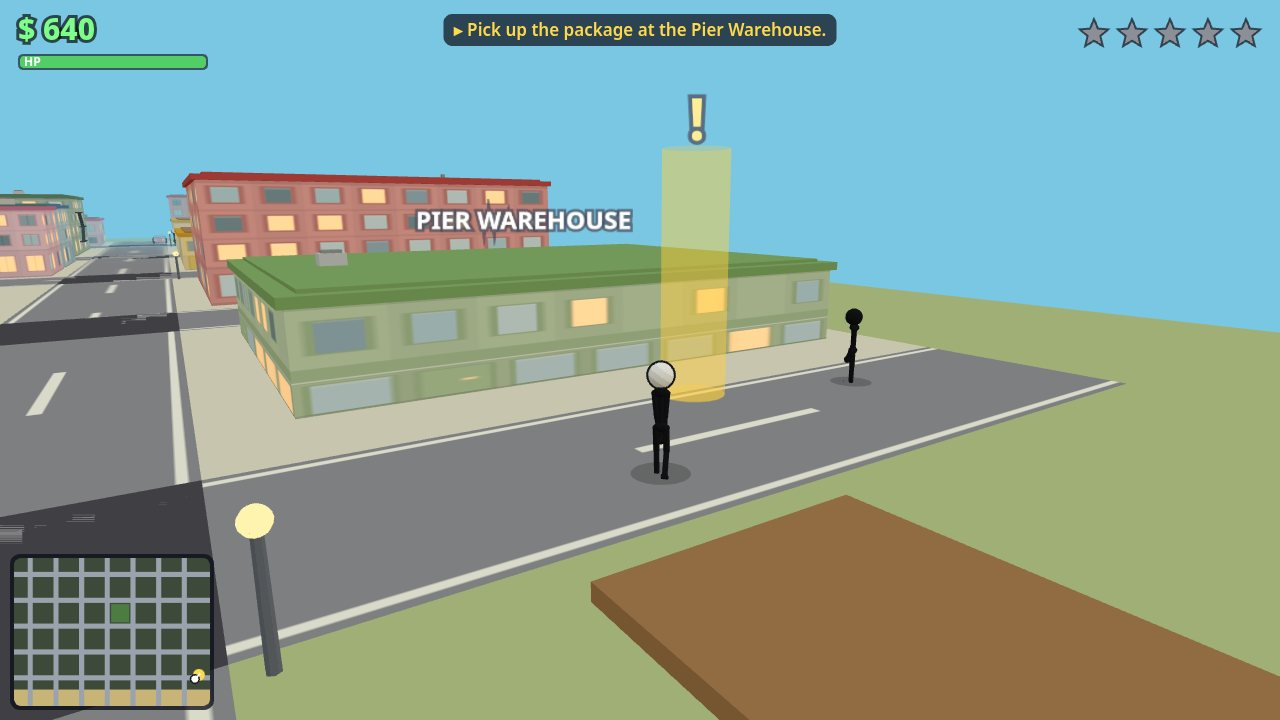
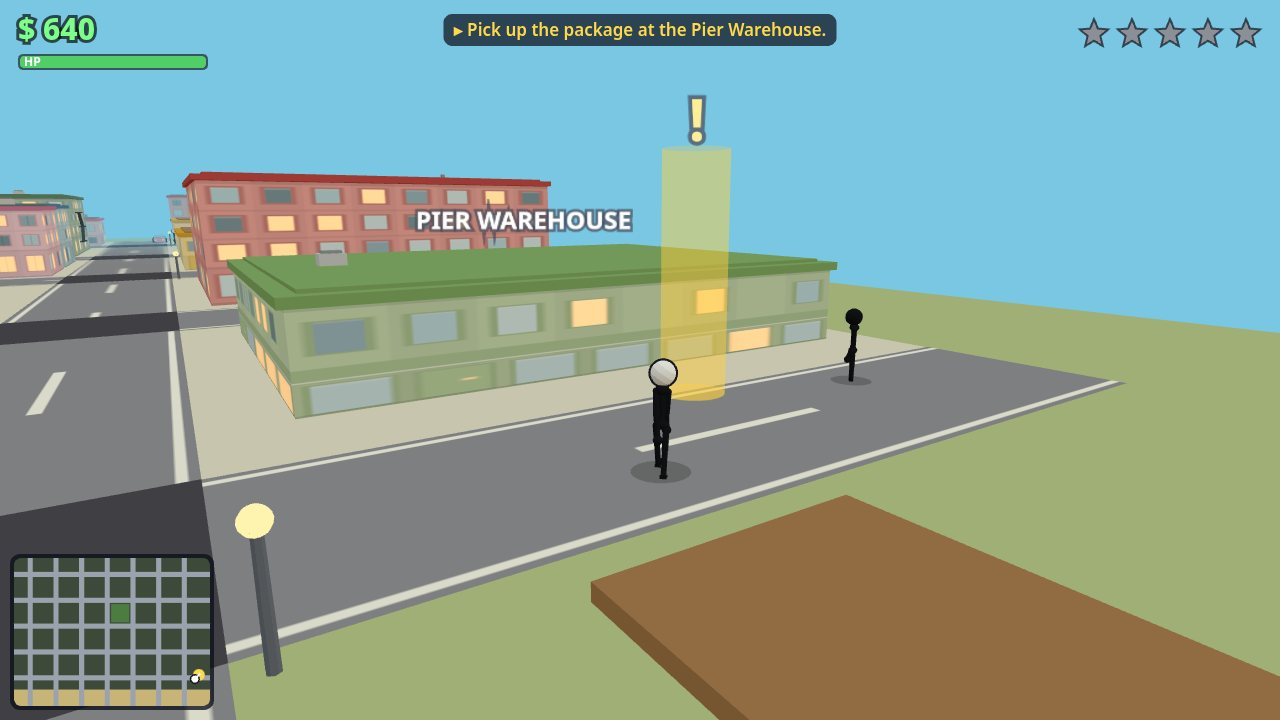
Fix z-fighting on overlapping meshes: spread ground-plane ladder, polygonOffset decals, tighter camera near plane
- Avenue/street road planes were exactly coplanar at crossings and the
  intersection squares sat 0.01 above them: whole crossings flipped
  surfaces between frames. Roads now share one level (0.28) with the
  squares a clear step above (0.42), and road/asphalt/pad materials
  carry polygonOffset.
- All flat ground layers (base, sidewalk, park, sand, sea, garage pad)
  were stacked within 0.12 of each other, far under depth precision at
  city distances: spread onto a ladder with >=0.14 steps.
- Camera near plane 0.5 -> 5 (the follow camera never gets closer than
  ~80 units), a ~10x depth-precision gain everywhere.
- Fire-escape platforms were exactly flush with facades (now sunk 0.4
  in); rooftop props and the police light bar rested exactly on the
  surfaces below (now sunk a few tenths); building box top no longer
  coplanar with the parapet slab underside; figure blob shadows and the
  mission marker disc raised above the road ladder with polygonOffset.

diff --git a/game/src/world3d.js b/game/src/world3d.js
@@ -292,56 +292,66 @@ export function buildWorld(scene, city) {
   // Touch the gradient so toon materials compile with it from the first frame.
   toonGradient();
 
-  // Base ground and block pavements.
+  // Base ground and block pavements. The flat ground layers sit on a spread
+  // ladder of heights (steps of ~0.14 or more): planes stacked within a few
+  // hundredths of a unit z-fight at city viewing distances, so no two
+  // overlapping surfaces may sit closer than that.
   const base = flatPlane(WORLD.width + 500, WORLD.height + 500, toonMat(0xb9c98d));
-  base.position.set(WORLD.width / 2, -0.05, WORLD.height / 2);
+  base.position.set(WORLD.width / 2, -0.3, WORLD.height / 2);
   group.add(base);
   const sidewalkMat = toonMat(0xe8e2d0);
   for (const block of city.blocks) {
     if (block.row === 5) continue;
     const p = flatPlane(block.w, block.h, sidewalkMat);
-    p.position.set(block.x + block.w / 2, 0.02, block.y + block.h / 2);
+    p.position.set(block.x + block.w / 2, 0, block.y + block.h / 2);
     group.add(p);
   }
   if (city.park) {
     const p = flatPlane(city.park.w, city.park.h, toonMat(0x8fce6e));
-    p.position.set(city.park.x + city.park.w / 2, 0.04, city.park.y + city.park.h / 2);
+    p.position.set(city.park.x + city.park.w / 2, 0.14, city.park.y + city.park.h / 2);
     group.add(p);
   }
   // Beach sand and the sea beyond the south edge.
   const sand = flatPlane(WORLD.width, WORLD.height - city.beachY, toonMat(0xf2ddab));
-  sand.position.set(WORLD.width / 2, 0.03, (city.beachY + WORLD.height) / 2);
+  sand.position.set(WORLD.width / 2, 0.14, (city.beachY + WORLD.height) / 2);
   group.add(sand);
   const sea = flatPlane(WORLD.width + 900, 620, toonMat(0x3f9fd8));
-  sea.position.set(WORLD.width / 2, -0.5, WORLD.height + 300);
+  sea.position.set(WORLD.width / 2, -0.75, WORLD.height + 300);
   group.add(sea);
   // The pier: a wooden jetty reaching into the sea near the warehouse.
   const pierDeck = new THREE.Mesh(new THREE.BoxGeometry(84, 5, 430), toonMat(0xa97c50));
   pierDeck.position.set(3085, 2.5, WORLD.height - 190);
   group.add(pierDeck);
 
-  // Roads: one textured plane per avenue and street, plain squares on crossings.
+  // Roads: one textured plane per avenue and street, plain squares on
+  // crossings. Avenues and streets share one level and the crossing squares
+  // sit a clear step above both (they used to be 0.01 apart, all three
+  // coplanar at the crossings, and the whole square flickered); polygonOffset
+  // on the road materials is a second line of defence.
   const vTex = makeRoadTexture(false);
   vTex.repeat.set(1, WORLD.height / 256);
-  const vRoadMat = new THREE.MeshToonMaterial({ map: vTex, gradientMap: toonGradient() });
+  const vRoadMat = new THREE.MeshToonMaterial({ map: vTex, gradientMap: toonGradient(), polygonOffset: true, polygonOffsetFactor: -1, polygonOffsetUnits: -1 });
   for (const avenue of ROAD.avenues) {
     const p = flatPlane(ROAD.width, WORLD.height, vRoadMat);
-    p.position.set(avenue, 0.05, WORLD.height / 2);
+    p.position.set(avenue, 0.28, WORLD.height / 2);
     group.add(p);
   }
   const hTex = makeRoadTexture(true);
   hTex.repeat.set(1, WORLD.width / 256);
-  const hRoadMat = new THREE.MeshToonMaterial({ map: hTex, gradientMap: toonGradient() });
+  const hRoadMat = new THREE.MeshToonMaterial({ map: hTex, gradientMap: toonGradient(), polygonOffset: true, polygonOffsetFactor: -1, polygonOffsetUnits: -1 });
   for (const street of ROAD.streets) {
     const p = flatPlane(WORLD.width, ROAD.width, hRoadMat);
-    p.position.set(WORLD.width / 2, 0.05, street);
+    p.position.set(WORLD.width / 2, 0.28, street);
     group.add(p);
   }
   const asphaltMat = toonMat(0x4a4a52);
+  asphaltMat.polygonOffset = true;
+  asphaltMat.polygonOffsetFactor = -2;
+  asphaltMat.polygonOffsetUnits = -2;
   for (const avenue of ROAD.avenues) {
     for (const street of ROAD.streets) {
       const p = flatPlane(ROAD.width, ROAD.width, asphaltMat);
-      p.position.set(avenue, 0.06, street);
+      p.position.set(avenue, 0.42, street);
       group.add(p);
     }
   }
@@ -374,11 +384,13 @@ export function buildWorld(scene, city) {
       : toonMat(new THREE.Color(b.wall).getHex());
     const narrowMat = faceMat(narrow);
     const wideMat = faceMat(wide);
+    // The box stops 0.4 short of the full height so its top face is not
+    // exactly coplanar with the parapet slab's underside.
     const box = new THREE.Mesh(
-      new THREE.BoxGeometry(b.w, hgt, b.h),
+      new THREE.BoxGeometry(b.w, hgt - 0.4, b.h),
       [narrowMat, narrowMat, roofMat, roofMat, wideMat, wideMat],
     );
-    box.position.set(cx, hgt / 2, cz);
+    box.position.set(cx, (hgt - 0.4) / 2, cz);
     group.add(box);
     // Parapet: the familiar cap slab, in the building's trim colour, with a
     // slightly inset roof deck on top wearing a varied flat roof tone.
@@ -403,17 +415,19 @@ export function buildWorld(scene, city) {
       const stand = new THREE.Mesh(new THREE.CylinderGeometry(2.2, 2.8, 6, 8), metalMat);
       stand.position.y = 3;
       tower.add(tank, cone, stand);
-      tower.position.set(cx + offX, hgt + 7, cz + offZ);
+      tower.position.set(cx + offX, hgt + 6.7, cz + offZ);
       group.add(tower);
     } else if (propR < 0.62) {
+      // Props sink a few tenths into the deck/unit below them: faces resting
+      // exactly on a surface are coplanar and can shimmer at glancing angles.
       const ac = new THREE.Mesh(new THREE.BoxGeometry(15, 7, 11), acMat);
-      ac.position.set(cx + offX, hgt + 10.5, cz + offZ);
+      ac.position.set(cx + offX, hgt + 10.3, cz + offZ);
       const acTop = new THREE.Mesh(new THREE.BoxGeometry(11, 1.8, 8), acTopMat);
-      acTop.position.set(cx + offX, hgt + 14.9, cz + offZ);
+      acTop.position.set(cx + offX, hgt + 14.5, cz + offZ);
       group.add(ac, acTop);
     } else if (propR < 0.78) {
       const vent = new THREE.Mesh(new THREE.CylinderGeometry(2.6, 2.6, 7, 8), acTopMat);
-      vent.position.set(cx + offX, hgt + 10.5, cz + offZ);
+      vent.position.set(cx + offX, hgt + 10.2, cz + offZ);
       group.add(vent);
     }
 
@@ -428,14 +442,16 @@ export function buildWorld(scene, city) {
       for (let f = 1; f < floors; f += 1) {
         const py = f * 27 - 5;
         const plat = new THREE.Mesh(platGeo, metalMat);
-        plat.position.set(b.x + b.w + 3.5, py, cz + (f % 2 === 0 ? -platW / 4 : platW / 4));
+        // Sunk 0.4 into the wall: a platform face exactly flush with the
+        // facade plane is coplanar with it and flickers.
+        plat.position.set(b.x + b.w + 3.1, py, cz + (f % 2 === 0 ? -platW / 4 : platW / 4));
         group.add(plat);
         if (prev) {
           const dz = plat.position.z - prev.position.z;
           const dy = py - prev.position.y;
           const len = Math.hypot(dz, dy);
           const stair = new THREE.Mesh(new THREE.BoxGeometry(5, 1.2, len), metalMat);
-          stair.position.set(b.x + b.w + 3.5, (py + prev.position.y) / 2, (plat.position.z + prev.position.z) / 2);
+          stair.position.set(b.x + b.w + 3.1, (py + prev.position.y) / 2, (plat.position.z + prev.position.z) / 2);
           stair.rotation.x = -Math.atan2(dy, dz);
           group.add(stair);
         }
@@ -491,8 +507,12 @@ export function buildWorld(scene, city) {
   const carport = new THREE.Mesh(new THREE.BoxGeometry(zone.w + 26, 5, zone.h + 26), toonMat(0x37b24d));
   carport.position.set(zone.x + zone.w / 2, 35, zone.y + zone.h / 2);
   group.add(carport);
-  const pad = flatPlane(zone.w + 16, zone.h + 16, toonMat(0xc9c9c9));
-  pad.position.set(zone.x + zone.w / 2, 0.07, zone.y + zone.h / 2);
+  const padMat = new THREE.MeshToonMaterial({
+    color: 0xc9c9c9, gradientMap: toonGradient(),
+    polygonOffset: true, polygonOffsetFactor: -3, polygonOffsetUnits: -3,
+  });
+  const pad = flatPlane(zone.w + 16, zone.h + 16, padMat);
+  pad.position.set(zone.x + zone.w / 2, 0.56, zone.y + zone.h / 2);
   group.add(pad);
 
   // Trees and palms.
@@ -554,10 +574,13 @@ export function makeMarker(colorHex = 0xffcf3f, label = '!') {
   group.add(beam);
   const disc = new THREE.Mesh(
     new THREE.CircleGeometry(15, 22),
-    new THREE.MeshBasicMaterial({ color: colorHex, transparent: true, opacity: 0.5, depthWrite: false }),
+    new THREE.MeshBasicMaterial({
+      color: colorHex, transparent: true, opacity: 0.5, depthWrite: false,
+      polygonOffset: true, polygonOffsetFactor: -2, polygonOffsetUnits: -2,
+    }),
   );
   disc.rotation.x = -Math.PI / 2;
-  disc.position.y = 0.4;
+  disc.position.y = 0.95;
   group.add(disc);
   const sprite = makeTextSprite(label, { size: 64, color: '#ffd94d', scale: 1.15 });
   sprite.position.y = 122;

diff --git a/game/src/stick3d.js b/game/src/stick3d.js
@@ -154,10 +154,16 @@ export function createFigure(opts = {}) {
   // Soft blob shadow that stays flat on the ground whatever the body does.
   const shadow = new THREE.Mesh(
     new THREE.CircleGeometry(10, 20),
-    new THREE.MeshBasicMaterial({ color: 0x000000, transparent: true, opacity: 0.2, depthWrite: false }),
+    new THREE.MeshBasicMaterial({
+      color: 0x000000, transparent: true, opacity: 0.2, depthWrite: false,
+      // The blob floats above the whole ground-plane ladder (roads and
+      // crossing squares included) and polygonOffset keeps it winning the
+      // depth test against whichever surface is underneath.
+      polygonOffset: true, polygonOffsetFactor: -4, polygonOffsetUnits: -4,
+    }),
   );
   shadow.rotation.x = -Math.PI / 2;
-  shadow.position.y = 0.07;
+  shadow.position.y = 0.62;
   group.add(shadow);
 
   const HIP_H = 16;

diff --git a/game/src/vehicles.js b/game/src/vehicles.js
@@ -56,7 +56,7 @@ export function makeCarMesh(colorHex, police = false) {
   let lightR = null;
   if (police) {
     const bar = new THREE.Mesh(new THREE.BoxGeometry(13, 2.6, 9), basicMat(0x23232b));
-    bar.position.set(-2, 21.6, 0);
+    bar.position.set(-2, 21.2, 0); // sunk into the cabin roof, not resting exactly on it
     group.add(bar);
     const bulbGeo = new THREE.SphereGeometry(2.9, 10, 8);
     lightL = new THREE.Mesh(bulbGeo, basicMat(0xff3b30));

diff --git a/game/src/main.js b/game/src/main.js
@@ -32,7 +32,7 @@ const canvas = document.getElementById('game');
 const renderer = new THREE.WebGLRenderer({ canvas, antialias: true });
 renderer.setPixelRatio(Math.min(window.devicePixelRatio || 1, 2));
 const scene = new THREE.Scene();
-const camera = new THREE.PerspectiveCamera(55, 1, 0.5, 4200);
+const camera = new THREE.PerspectiveCamera(55, 1, 5, 4200);
 const hudCanvas = document.getElementById('hud');
 const hudCtx = hudCanvas.getContext('2d');
 
